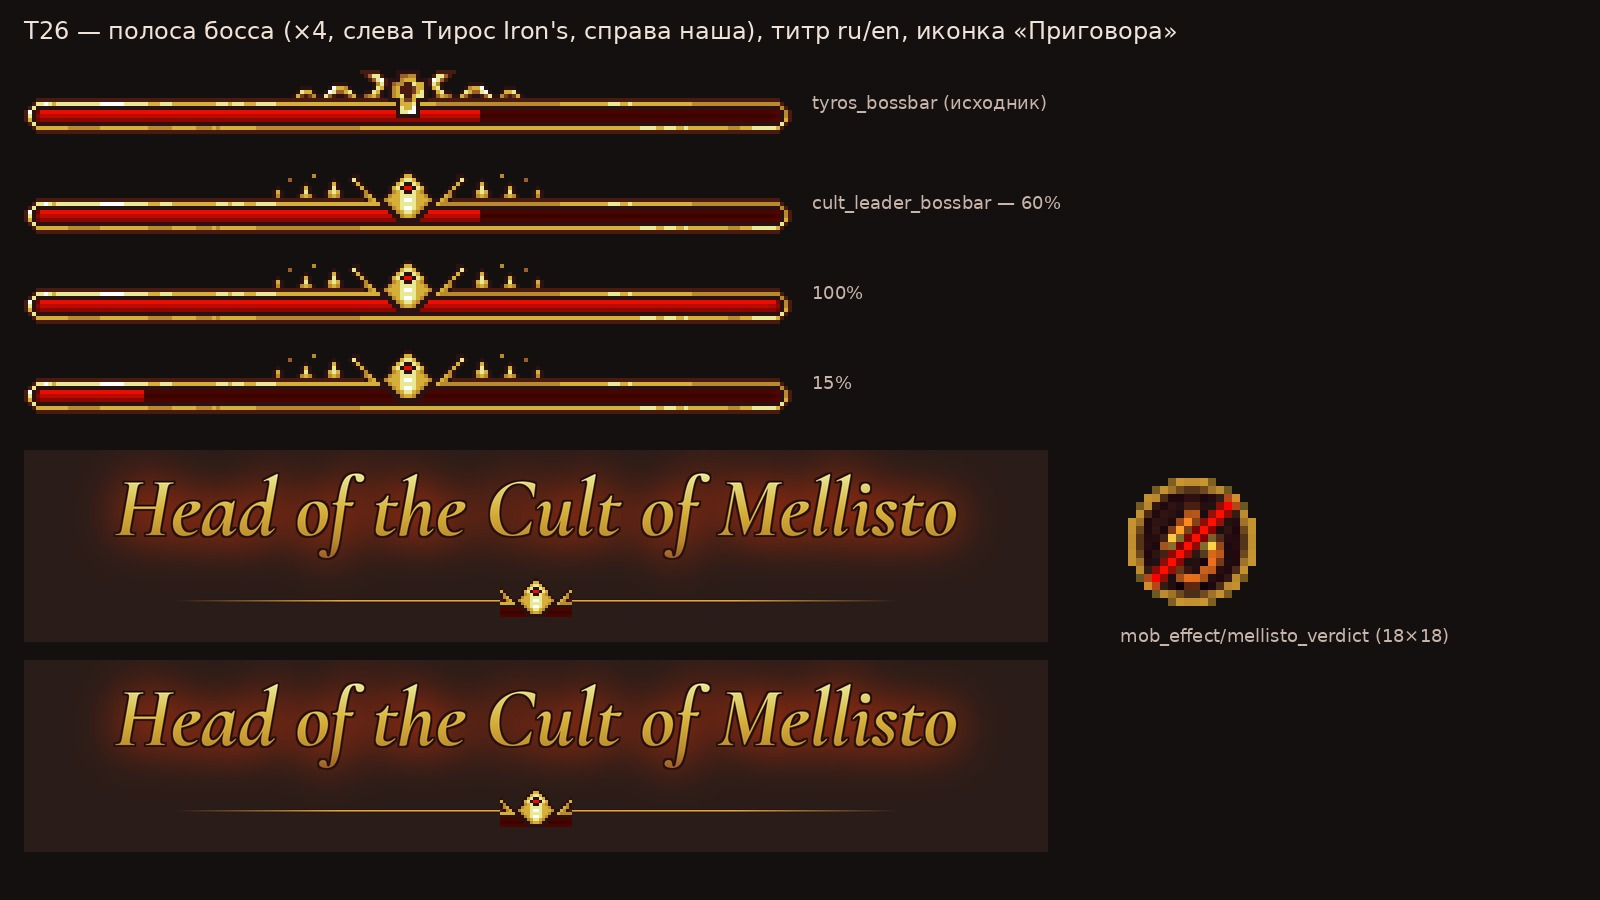
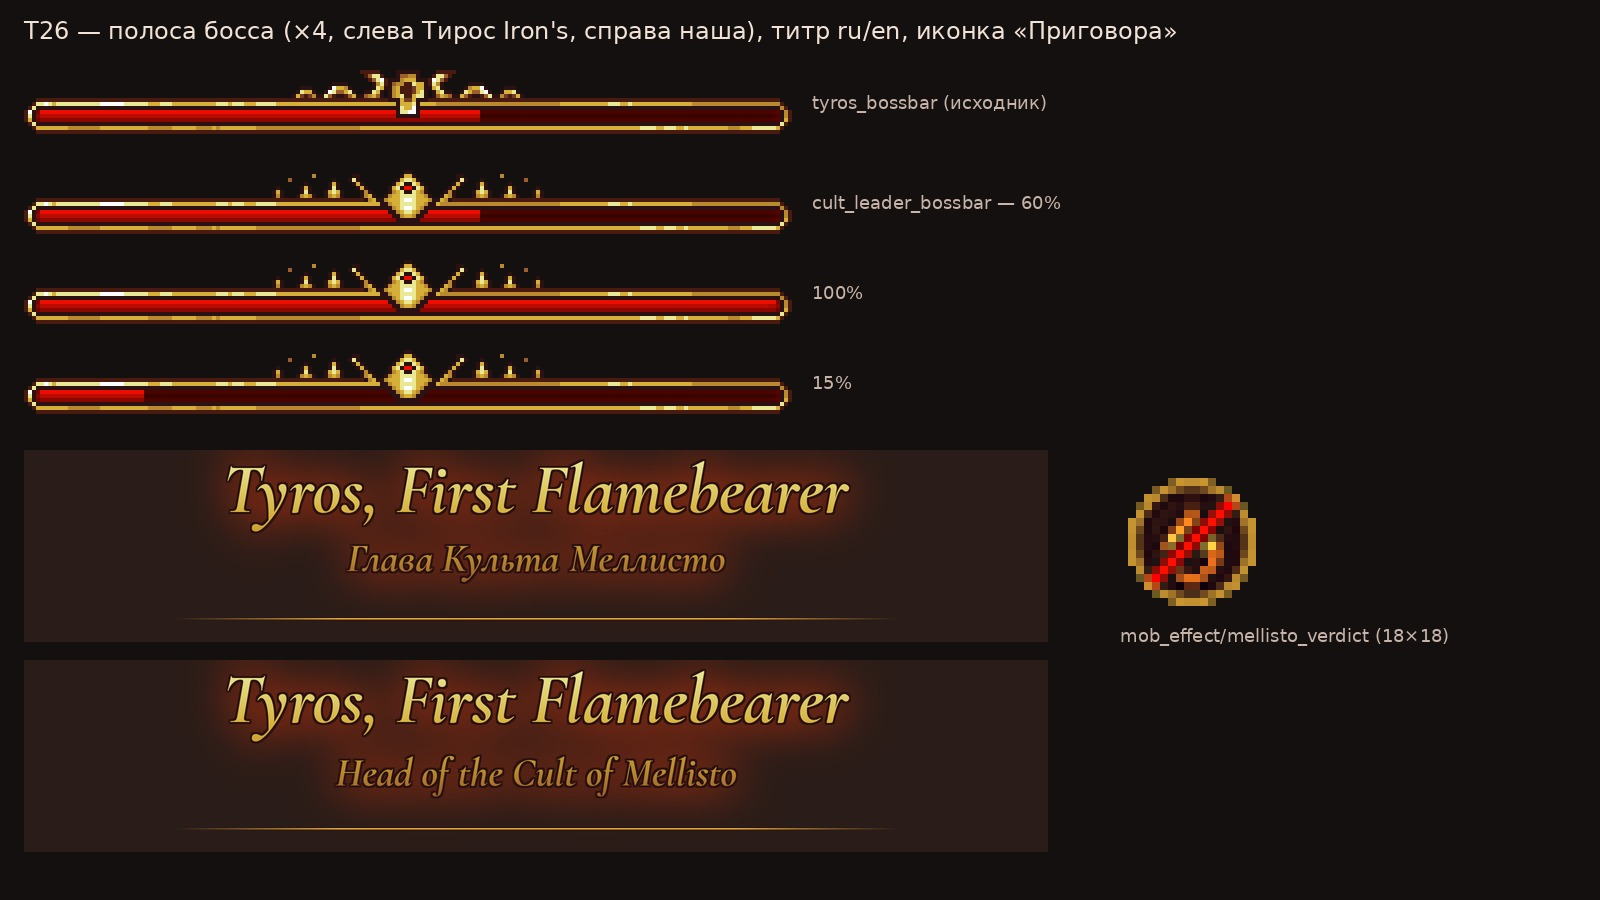
T26: имя «Tyros, First Flamebearer» + нижней строкой «Глава Культа Меллисто» (титр, lang, полоса)
Claude-Session: https://claude.ai/code/session_01Fjhr2dAH2KKAKWdYffHXhM

Changed region(s): [[0.0625, 0.4978, 0.625, 0.9333]]

diff --git a/tools/gen_cult_leader_fx.py b/tools/gen_cult_leader_fx.py
@@ -458,20 +458,29 @@ def bossbar():
 
 # ================================================================== титр
 def title(bar, name='cult_leader', texts=None):
+    """Титр. Владелец 20.11: имя — как в оригинале, без «Эхо» («Tyros, First Flamebearer»), ниже вторая строка — «Глава Культа Меллисто»
+    (en: «Head of the Cult of Mellisto»). texts: (lang, строка1, шрифт1[, строка2, шрифт2])."""
     gold = [M.hx(c) for c in ('#e8e895', '#d6af39', '#b9892e', '#9c5e2c')]
-    texts = texts or (('ru', 'Head of the Cult of Mellisto', 'CormorantGaramond-BoldItalic-latin.woff'),     # имя — английское
-                      ('en', 'Head of the Cult of Mellisto', 'CormorantGaramond-BoldItalic-latin.woff'))
-    for lang, text, font in texts:
+    texts = texts or (('ru', 'Tyros, First Flamebearer', 'CormorantGaramond-BoldItalic-latin.woff',
+                       'Глава Культа Меллисто', 'CormorantGaramond-BoldItalic-cyrillic.woff'),
+                      ('en', 'Tyros, First Flamebearer', 'CormorantGaramond-BoldItalic-latin.woff',
+                       'Head of the Cult of Mellisto', 'CormorantGaramond-BoldItalic-latin.woff'))
+    for tt in texts:
+        lang, text, font = tt[:3]
+        sub = tt[3:5] if len(tt) > 3 else None
         S = 2
         Wd, Hd = 1024 * S, 192 * S
-        fnt = ImageFont.truetype(os.path.join(HERE, 'fonts', font), 92 * S)
-        if True:
-            fnt = ImageFont.truetype(os.path.join(HERE, 'fonts', font), 84 * S)
+        fnt = ImageFont.truetype(os.path.join(HERE, 'fonts', font), (84 if not sub else 70) * S)
         bb = fnt.getbbox(text)
         tw, th = bb[2] - bb[0], bb[3] - bb[1]
-        tx, ty = (Wd - tw) / 2 - bb[0], 18 * S - bb[1] + (96 * S - th) / 2
+        tx, ty = (Wd - tw) / 2 - bb[0], (18 if not sub else 6) * S - bb[1] + ((96 if not sub else 80) * S - th) / 2
         mask = Image.new('L', (Wd, Hd), 0)
         ImageDraw.Draw(mask).text((tx, ty), text, font=fnt, fill=255)
+        if sub:                                                             # вторая строка — мельче, под именем
+            f2 = ImageFont.truetype(os.path.join(HERE, 'fonts', sub[1]), 40 * S)
+            b2 = f2.getbbox(sub[0])
+            ImageDraw.Draw(mask).text(((Wd - (b2[2] - b2[0])) / 2 - b2[0], 96 * S - b2[1]), sub[0], font=f2, fill=255)
+            th = 96 * S + (b2[3] - b2[1]) - (ty + bb[1])
         m = np.asarray(mask, np.float32) / 255
         yy = np.linspace(0, 1, Hd)[:, None]
         t = np.clip((yy * Hd - (ty + bb[1])) / th, 0, 1)                # вертикальный градиент золота по высоте букв
@@ -499,7 +508,7 @@ def title(bar, name='cult_leader', texts=None):
         img = Image.fromarray(out_.clip(0, 255).astype(np.uint8), 'RGBA').resize((1024, 192), Image.LANCZOS)
         # орнамент под надписью: линия, сходящая на нет, и знак-око с полосы босса (×3, пиксельно)
         d = ImageDraw.Draw(img)
-        y = 150
+        y = 150 if not sub else 168
         for x in range(150, 874):
             k = 1 - abs(x - 512) / 362
             a_ = int(255 * min(1, k * 2.2))
@@ -508,7 +517,8 @@ def title(bar, name='cult_leader', texts=None):
             d.point((x, y - 1), fill=M.hx('#2b1111', int(a_ * 0.8)))
             d.point((x, y + 2), fill=M.hx('#2b1111', int(a_ * 0.8)))
         crop = bar.crop((84, 0, 108, 13)).resize((72, 39), Image.NEAREST)
-        img.alpha_composite(crop, (512 - 36, y - 22))
+        if not sub:
+            img.alpha_composite(crop, (512 - 36, y - 22))
         img.save(M.out('textures/gui/title/%s_%s.png' % (name, lang)))
 
 
@@ -528,10 +538,11 @@ def icon():
 
 # ================================================================== lang и звуки
 LANG = {
-    'entity.pohsmp_core.cult_leader': ('Head of the Cult of Mellisto', 'Head of the Cult of Mellisto'),     # владелец: имя на обоих языках — английское
+    'entity.pohsmp_core.cult_leader': ('Tyros, First Flamebearer', 'Tyros, First Flamebearer'),     # владелец 20.11: имя как в оригинале, без «Эхо»
     'entity.pohsmp_core.fire_cultist': ('Огненный культист', 'Fire Cultist'),
-    'ui.pohsmp_core.cult_leader.title': ('Head of the Cult of Mellisto', 'Head of the Cult of Mellisto'),
-    'ui.pohsmp_core.cult_leader.subtitle': ('Пламя, что выносит приговор', 'The flame that passes judgement'),
+    'ui.pohsmp_core.cult_leader.title': ('Tyros, First Flamebearer', 'Tyros, First Flamebearer'),
+    'ui.pohsmp_core.cult_leader.epithet': ('Глава Культа Меллисто', 'Head of the Cult of Mellisto'),     # нижняя строка (под именем, под полосой босса)
+    'ui.pohsmp_core.cult_leader.subtitle': ('Глава Культа Меллисто', 'Head of the Cult of Mellisto'),
     'ui.pohsmp_core.cult_leader.verdict_warn': ('Глава Культа выносит приговор…', 'The Cult Leader passes judgement…'),
     'ui.pohsmp_core.cult_leader.verdict': ('Приговор Меллисто: магия под запретом (%s с)', 'Mellisto\'s Verdict: magic is forbidden (%ss)'),
     'ui.pohsmp_core.cult_leader.verdict_blocked': ('Приговор Меллисто запрещает колдовать', 'Mellisto\'s Verdict forbids casting'),

diff --git a/tools/gen_cult_leader_extra.py b/tools/gen_cult_leader_extra.py
@@ -433,7 +433,7 @@ LANG = {
     'ui.pohsmp_core.cult_leader.ash': ('Пепел Меллисто', 'Ashes of Mellisto'),
     'ui.pohsmp_core.cult_leader.ash_warn': ('Огненная линия — уйдите с неё!', 'A line of fire — get off it!'),
     'ui.pohsmp_core.cult_leader.replica_taunt': ('Эта фальшивка на меня не сработает', 'This forgery won\'t work on me'),
-    'death.attack.pohsmp_core.cult_finisher': ('%1$s пал от косы Head of the Cult of Mellisto', '%1$s was finished off by the Head of the Cult of Mellisto'),
+    'death.attack.pohsmp_core.cult_finisher': ('%1$s пал от косы Тироса, Главы Культа Меллисто', '%1$s was finished off by Tyros, Head of the Cult of Mellisto'),
     'subtitles.pohsmp_core.cult_leader.first_flame': ('Раскрывается Первое Пламя', 'The First Flame unfolds'),
     'subtitles.pohsmp_core.cult_leader.first_flame_impact': ('Столб пламени', 'Pillar of flame'),
     'subtitles.pohsmp_core.cult_leader.ash': ('Глава Культа рассыпается пеплом', 'Cult Leader turns to ash'),

diff --git a/docs/specs/tasks/T26_cult_leader_boss.md b/docs/specs/tasks/T26_cult_leader_boss.md
@@ -133,3 +133,10 @@ ExtendedServerBossEvent Iron's).
 в GUI/на земле — плоская иконка Iron's. **Коду:** зарегистрировать предмет `pohsmp_core:cult_scythe` (без рецепта, не выдаётся игрокам)
 и давать его боссу вместо `ItemRegistry.DECREPIT_SCYTHE` (в т.ч. в призыве косы). Проверить хват в руке босса, при сдвиге — поправить
 `display` в генераторе.
+
+## Имя (владелец 20.11)
+Имя — **как в оригинале, без «Эхо»: «Tyros, First Flamebearer»**, а **нижней строкой — «Глава Культа Меллисто»** (en: «Head of the Cult of Mellisto»).
+- `entity.pohsmp_core.cult_leader` = «Tyros, First Flamebearer» (имя сущности и строка над полосой босса);
+- `ui.pohsmp_core.cult_leader.epithet` = нижняя строка — **коду:** рисовать её под полосой босса мелким шрифтом в цвете полосы;
+- титр ролика появления `textures/gui/title/cult_leader_{ru,en}.png` — две строки (кадр `docs/media/t26_title_names.png`);
+- сообщение о смерти от добивания: «%1$s пал от косы Тироса, Главы Культа Меллисто».
